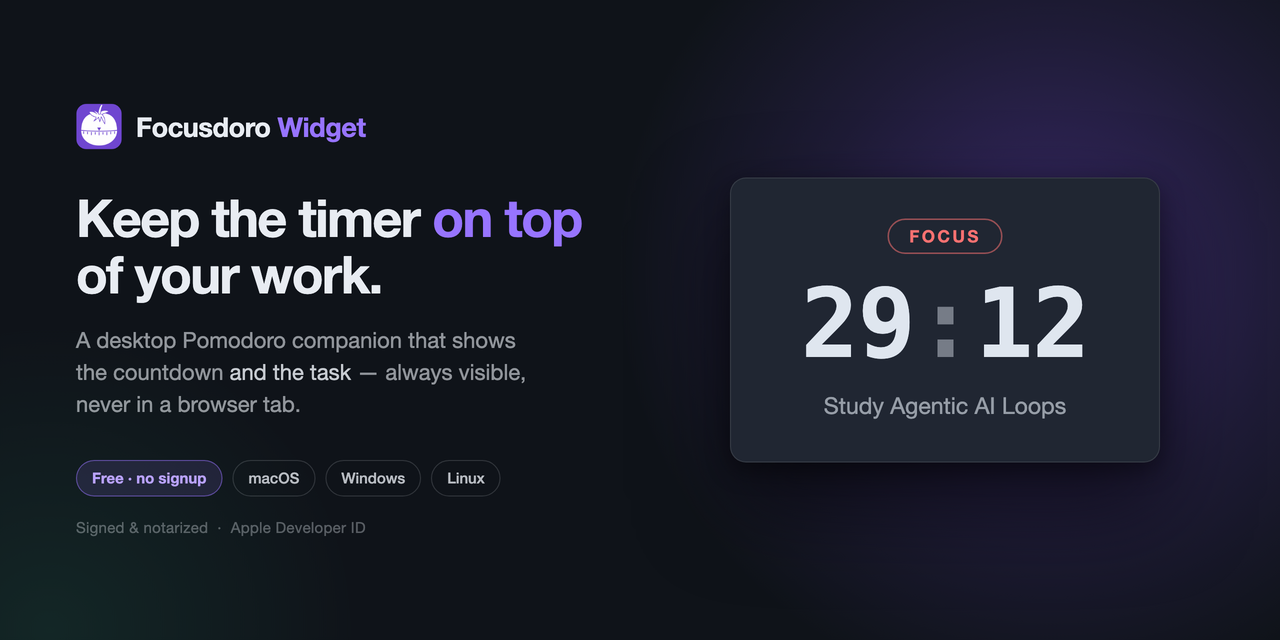
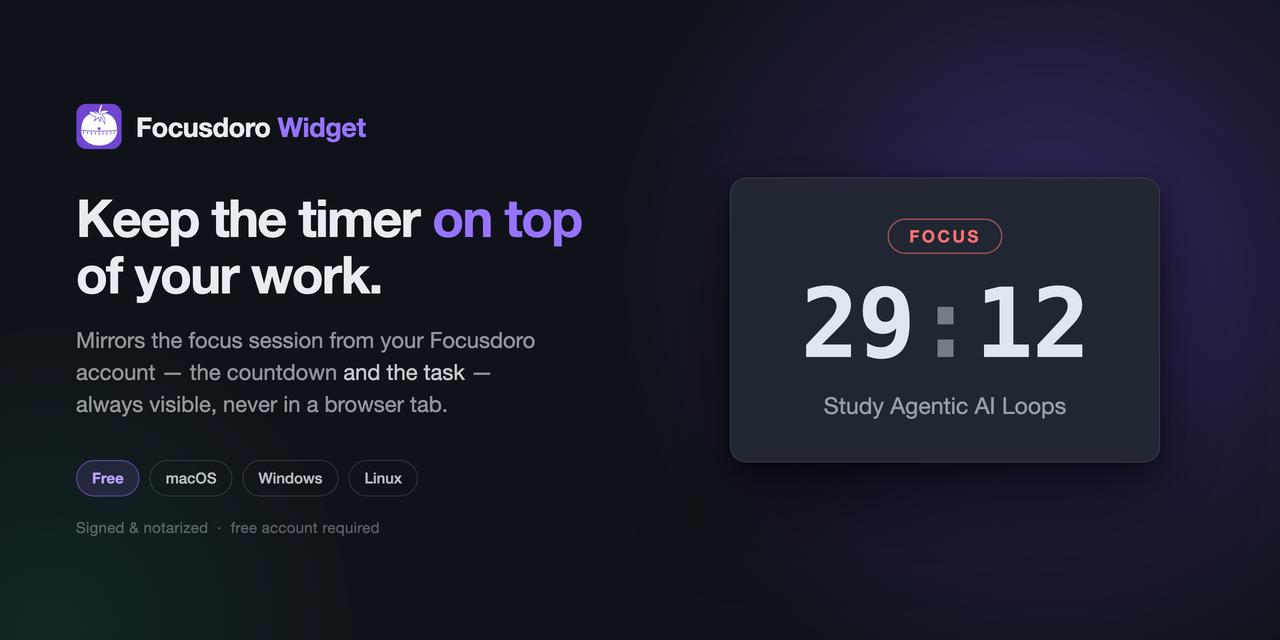
Correct the no-signup claim — the widget requires an account
The widget shows a sign-in screen on first launch and mirrors the session
from your Focusdoro account; it has no start/pause controls of its own.
'Free. No signup.' sent people to a login wall they had been told did not
exist.

Card, alt text and README now say free, account required, and explain that
it is a mirror rather than a second timer.

diff --git a/.github/social-preview.source.html b/.github/social-preview.source.html
@@ -157,18 +157,18 @@
     <h1>Keep the timer <em class="nowrap">on&nbsp;top</em><br>of your work.</h1>
 
     <p class="sub">
-      A desktop Pomodoro companion that shows the countdown
+      Mirrors the focus session from your Focusdoro account — the countdown
       <em style="color:rgba(232,236,242,0.85);font-style:normal">and the task</em> —
       always visible, never in a browser tab.
     </p>
 
     <div class="meta">
-      <span class="pill free">Free · no signup</span>
+      <span class="pill free">Free</span>
       <span class="pill">macOS</span>
       <span class="pill">Windows</span>
       <span class="pill">Linux</span>
     </div>
-    <div class="trust">Signed &amp; notarized &nbsp;·&nbsp; Apple Developer ID</div>
+    <div class="trust">Signed &amp; notarized &nbsp;·&nbsp; free account required</div>
   </div>
 
   <div class="stage">

diff --git a/README.md b/README.md
@@ -1,20 +1,22 @@
 # Focusdoro Widget
 
 <p align="center">
-  <img src=".github/social-preview.png" alt="Focusdoro Widget — keep the timer on top of your work. Free, no signup. macOS, Windows and Linux. Signed and notarized." width="100%">
+  <img src=".github/social-preview.png" alt="Focusdoro Widget — keep the timer on top of your work. Free, macOS, Windows and Linux. Signed and notarized." width="100%">
 </p>
 
 A desktop Pomodoro companion that keeps your focus session — the timer, the phase, and the task you're working on — visible on top of your work.
 
 **[Download the latest release →](https://github.com/code-with-ahsan/focusdoro-widget/releases/latest)**
 
-Free. No signup. macOS, Windows and Linux.
+Free. macOS, Windows and Linux. Needs a free Focusdoro account.
 
 ---
 
 ## What it is
 
 The widget mirrors the session running in [Focusdoro](https://focusdoro.app) — the web app and the OBS overlay. Start a focus session in the browser and the widget follows it, so the countdown and the current task stay on screen while you work in your editor, your terminal, or anywhere else.
+
+**It is a mirror, not a second timer.** On first launch it asks you to sign in with your Focusdoro account (Google or a magic link), then follows the session you start on the web. There are no start/pause controls on the widget itself — you drive the session from the web app or the overlay, and the widget shows it.
 
 - **Always on top** — the timer never disappears behind another window
 - **Shows the task, not just the clock** — a bare countdown tells you nothing about what you're protecting
